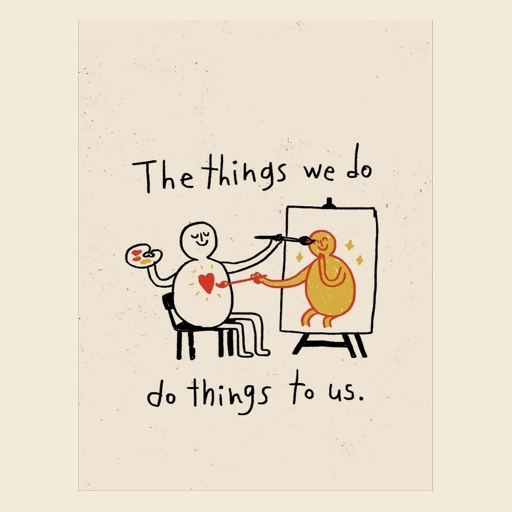
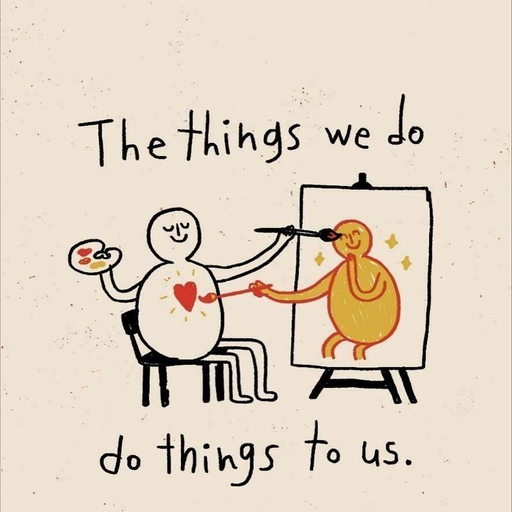
Add files via upload

diff --git a/index.html b/index.html
@@ -3,191 +3,90 @@
 <head>
   <meta charset="utf-8" />
   <meta name="viewport" content="width=device-width, initial-scale=1, viewport-fit=cover" />
-  <meta name="theme-color" content="#efe4d2" />
-  <meta name="apple-mobile-web-app-capable" content="yes" />
-  <meta name="apple-mobile-web-app-title" content="Daily Points" />
-  <meta name="apple-mobile-web-app-status-bar-style" content="default" />
-  <link rel="manifest" href="manifest.webmanifest" />
-  <link rel="apple-touch-icon" href="icon-192.png" />
   <title>Daily Points</title>
+  <link rel="manifest" href="manifest.webmanifest" />
+  <link rel="icon" href="icon-192.png" />
+  <meta name="theme-color" content="#c6633f" />
   <style>
-    :root {
-      --paper: #f4ead9;
-      --card: #fff9ef;
-      --ink: #27221b;
-      --muted: #7a6d5b;
-      --line: #e1d2bd;
-      --green: #506849;
-      --rust: #b95a37;
-      --gold: #c39543;
-      --shadow: 0 14px 40px rgba(76, 55, 28, .12);
-    }
-    * { box-sizing: border-box; }
-    body {
-      margin: 0;
-      font-family: ui-rounded, -apple-system, BlinkMacSystemFont, "Segoe UI", sans-serif;
-      color: var(--ink);
-      background:
-        radial-gradient(circle at 18% 12%, rgba(185,90,55,.10), transparent 25%),
-        radial-gradient(circle at 90% 0%, rgba(80,104,73,.10), transparent 28%),
-        var(--paper);
-      min-height: 100vh;
-    }
-    .app { width: min(680px, 100%); margin: 0 auto; padding: 18px 16px 32px; }
-    header { display: flex; align-items: center; gap: 14px; padding: 6px 2px 16px; }
-    .logo { width: 66px; height: 66px; border-radius: 20px; object-fit: cover; box-shadow: 0 8px 22px rgba(52,38,23,.16); border: 1px solid rgba(60,42,22,.08); }
-    h1 { margin: 0; font-size: 30px; letter-spacing: -.03em; font-weight: 750; }
-    .subtitle { margin-top: 3px; color: var(--muted); font-size: 14px; }
-    .quote { margin: 6px 0 18px; padding: 12px 14px; border: 1px dashed #d5bfa1; border-radius: 18px; color: #574b3c; background: rgba(255,249,239,.54); line-height: 1.35; }
-    .score-card { background: var(--card); border: 1px solid var(--line); border-radius: 24px; box-shadow: var(--shadow); padding: 18px; }
-    .score-top { display: grid; grid-template-columns: 1.3fr .8fr .9fr; gap: 12px; align-items: center; }
-    .label { color: var(--muted); font-size: 12px; text-transform: uppercase; letter-spacing: .08em; }
-    .big { font-size: 36px; line-height: 1; font-weight: 760; letter-spacing: -.04em; }
-    .grade { color: var(--green); }
-    .streak { color: var(--rust); }
-    .progress { height: 10px; background: #e8dccb; border-radius: 999px; margin-top: 14px; overflow: hidden; }
-    .bar { height: 100%; width: 0%; background: var(--rust); border-radius: 999px; transition: width .25s ease; }
-    .section { margin-top: 18px; background: rgba(255,249,239,.72); border: 1px solid var(--line); border-radius: 22px; overflow: hidden; }
-    .section h2 { margin: 0; padding: 15px 16px 10px; font-size: 18px; }
-    .task { display: flex; align-items: center; gap: 12px; padding: 12px 14px; border-top: 1px solid rgba(225,210,189,.72); min-height: 54px; }
-    .task:first-of-type { border-top: 0; }
-    .task input { width: 22px; height: 22px; accent-color: var(--green); flex: 0 0 auto; }
-    .task-name { flex: 1; font-size: 16px; }
-    .pts { font-size: 13px; color: #8b552c; background: #f4e5d0; border: 1px solid #e5c9a9; padding: 4px 8px; border-radius: 999px; white-space: nowrap; }
-    .group { padding: 8px 0 2px; border-top: 1px solid rgba(225,210,189,.72); }
-    .group-title { padding: 6px 16px; color: var(--muted); font-size: 13px; font-weight: 700; }
-    .actions { display: flex; gap: 10px; margin-top: 16px; }
-    button { border: 0; border-radius: 16px; padding: 13px 14px; font-weight: 750; font-size: 15px; cursor: pointer; }
-    .primary { flex: 1; background: var(--green); color: #fffaf1; }
-    .secondary { background: #eadbc6; color: #4e4132; }
-    .history { margin-top: 18px; color: var(--muted); font-size: 14px; line-height: 1.6; }
-    .history strong { color: var(--ink); }
-    @media (max-width: 420px) {
-      .score-top { grid-template-columns: 1fr 1fr 1fr; gap: 8px; }
-      .big { font-size: 31px; }
-      h1 { font-size: 27px; }
-      .task-name { font-size: 15px; }
-    }
+    :root{--paper:#f6ecdc;--card:#fff8ec;--ink:#2d2924;--muted:#7d7063;--line:#e2d2bd;--accent:#c6633f;--green:#526b45;--gold:#b98b33;--shadow:0 12px 30px rgba(54,39,21,.12);}
+    *{box-sizing:border-box} body{margin:0;font-family:ui-rounded, -apple-system, BlinkMacSystemFont, "Segoe UI", sans-serif;background:var(--paper);color:var(--ink);}
+    .wrap{max-width:520px;margin:0 auto;min-height:100vh;padding:22px 16px 36px;background:radial-gradient(circle at 15% 0%,rgba(255,255,255,.8),transparent 35%),var(--paper)}
+    header{text-align:center;padding-top:8px}.logo{width:112px;height:112px;border-radius:28px;object-fit:cover;box-shadow:var(--shadow);display:block;margin:0 auto 14px}h1{font-size:34px;line-height:1;margin:0;font-weight:650;letter-spacing:-.04em}.tag{margin:8px 0 22px;color:var(--muted);font-size:15px}
+    .score{background:var(--card);border:1px solid var(--line);border-radius:26px;padding:18px;box-shadow:var(--shadow);margin-bottom:16px}.top{display:grid;grid-template-columns:1fr 1fr 1fr;gap:10px;text-align:center}.label{font-size:12px;text-transform:uppercase;letter-spacing:.08em;color:var(--muted)}.big{font-size:28px;font-weight:750;margin-top:4px}.grade{color:var(--green)}.bar{height:10px;background:#eadcc7;border-radius:99px;overflow:hidden;margin-top:16px}.fill{height:100%;width:0;background:var(--accent);border-radius:99px;transition:.25s}
+    .quote{display:flex;gap:12px;align-items:center;margin:16px 4px 20px}.quote img{width:86px;height:86px;border-radius:18px;object-fit:cover}.quote p{font-size:20px;line-height:1.25;margin:0;letter-spacing:-.03em}
+    .section{background:rgba(255,248,236,.68);border:1px solid var(--line);border-radius:24px;padding:10px 14px;margin:14px 0} .section h2{font-size:16px;margin:8px 4px 10px;letter-spacing:-.02em}.item{display:flex;align-items:center;gap:12px;padding:12px 4px;border-top:1px solid rgba(150,122,90,.22)}.item:first-of-type{border-top:0}.item input{width:22px;height:22px;accent-color:var(--green)}.item label{flex:1;font-size:16px}.pts{font-size:13px;color:#8f552e;background:#f4e7d4;border:1px solid #e5cfb3;border-radius:999px;padding:4px 8px;white-space:nowrap}.choice{display:grid;gap:8px;padding:4px 0 8px}.choice label{display:flex;align-items:center;gap:10px;padding:10px;border:1px solid rgba(150,122,90,.22);border-radius:16px;background:rgba(255,255,255,.25)}.choice input{accent-color:var(--green)}
+    .buttons{display:flex;gap:10px;margin-top:16px}.buttons button{flex:1;border:0;border-radius:16px;padding:13px 12px;font-weight:700;background:var(--ink);color:white}.buttons button.secondary{background:#e5d6c1;color:var(--ink)}.history{font-size:14px;color:var(--muted);line-height:1.6}.foot{text-align:center;color:var(--muted);font-size:12px;margin-top:18px}
   </style>
 </head>
 <body>
-  <main class="app">
+  <main class="wrap">
     <header>
-      <img class="logo" src="logo.png" alt="The things we do do things to us" />
-      <div>
-        <h1>Daily Points</h1>
-        <div class="subtitle">Small things, counted gently.</div>
-      </div>
+      <img class="logo" src="logo.png" alt="Daily Points logo">
+      <h1>Daily Points</h1>
+      <p class="tag">Small things, counted gently.</p>
     </header>
 
-    <div class="quote">“The things we do, do things to us.”</div>
-
-    <section class="score-card">
-      <div class="score-top">
-        <div><div class="label">Today</div><div class="big"><span id="score">0</span><span style="font-size:18px;color:var(--muted)"> / 20</span></div></div>
+    <section class="score">
+      <div class="top">
+        <div><div class="label">Today</div><div class="big"><span id="score">0</span>/18</div></div>
         <div><div class="label">Grade</div><div class="big grade" id="grade">F</div></div>
-        <div><div class="label">Streak</div><div class="big streak"><span id="streak">0</span>🔥</div></div>
+        <div><div class="label">Streak</div><div class="big"><span id="streak">0</span>🔥</div></div>
       </div>
-      <div class="progress"><div class="bar" id="bar"></div></div>
-      <div class="history" id="summary"></div>
+      <div class="bar"><div class="fill" id="fill"></div></div>
     </section>
 
-    <section class="section" id="tasks">
+    <div class="quote"><img src="logo.png" alt=""><p>The things we do<br>do things to us.</p></div>
+
+    <section class="section">
       <h2>Today</h2>
-      <label class="task"><input type="checkbox" data-id="run" data-points="2"><span class="task-name">Go on a run</span><span class="pts">2 pts</span></label>
-      <label class="task"><input type="checkbox" data-id="cook" data-points="1"><span class="task-name">Cook food</span><span class="pts">1 pt</span></label>
-      <label class="task"><input type="checkbox" data-id="yoga" data-points="1"><span class="task-name">Do yoga</span><span class="pts">1 pt</span></label>
-      <label class="task"><input type="checkbox" data-id="steps" data-points="1"><span class="task-name">10k steps</span><span class="pts">1 pt</span></label>
-      <label class="task"><input type="checkbox" data-id="abs" data-points="1"><span class="task-name">Ab workout</span><span class="pts">1 pt</span></label>
-      <label class="task"><input type="checkbox" data-id="pray" data-points="1"><span class="task-name">Pray</span><span class="pts">1 pt</span></label>
-      <label class="task"><input type="checkbox" data-id="work" data-points="2"><span class="task-name">Advance well on work</span><span class="pts">2 pts</span></label>
-      <label class="task"><input type="checkbox" data-id="art" data-points="2"><span class="task-name">Do an artistic activity</span><span class="pts">2 pts</span></label>
-      <label class="task"><input type="checkbox" data-id="tidy" data-points="1"><span class="task-name">Tidy up the house</span><span class="pts">1 pt</span></label>
-      <label class="task"><input type="checkbox" data-id="sunset" data-points="0.5"><span class="task-name">Watch a sunset</span><span class="pts">0.5 pt</span></label>
-      <label class="task"><input type="checkbox" data-id="doc" data-points="0.5"><span class="task-name">Watch a documentary</span><span class="pts">0.5 pt</span></label>
+      <div class="item"><input type="checkbox" data-points="2" id="run"><label for="run">Go on a run</label><span class="pts">2 pts</span></div>
+      <div class="item"><input type="checkbox" data-points="1" id="cook"><label for="cook">Cook food</label><span class="pts">1 pt</span></div>
+      <div class="item"><input type="checkbox" data-points="1" id="yoga"><label for="yoga">Do yoga</label><span class="pts">1 pt</span></div>
+      <div class="item"><input type="checkbox" data-points="0.5" id="sunset"><label for="sunset">Watch a sunset</label><span class="pts">0.5 pt</span></div>
+      <div class="item"><input type="checkbox" data-points="2" id="work"><label for="work">Advance well on work</label><span class="pts">2 pts</span></div>
+      <div class="item"><input type="checkbox" data-points="1" id="steps"><label for="steps">10k steps</label><span class="pts">1 pt</span></div>
+      <div class="item"><input type="checkbox" data-points="1" id="abs"><label for="abs">Ab workout</label><span class="pts">1 pt</span></div>
+      <div class="item"><input type="checkbox" data-points="0.5" id="doc"><label for="doc">Watch a documentary</label><span class="pts">0.5 pt</span></div>
+      <div class="item"><input type="checkbox" data-points="1" id="pray"><label for="pray">Pray</label><span class="pts">1 pt</span></div>
+      <div class="item"><input type="checkbox" data-points="2" id="art"><label for="art">Do an artistic activity</label><span class="pts">2 pts</span></div>
+      <div class="item"><input type="checkbox" data-points="1" id="tidy"><label for="tidy">Tidy up the house</label><span class="pts">1 pt</span></div>
+    </section>
 
-      <div class="group">
-        <div class="group-title">Screen time</div>
-        <label class="task"><input type="radio" name="screen" data-id="screen4" data-points="1"><span class="task-name">Less than 4h screen time</span><span class="pts">1 pt</span></label>
-        <label class="task"><input type="radio" name="screen" data-id="screen3" data-points="2"><span class="task-name">Less than 3h screen time</span><span class="pts">2 pts</span></label>
-      </div>
-
-      <div class="group">
-        <div class="group-title">Reading</div>
-        <label class="task"><input type="radio" name="reading" data-id="read30" data-points="1"><span class="task-name">Read for 30 minutes</span><span class="pts">1 pt</span></label>
-        <label class="task"><input type="radio" name="reading" data-id="read1" data-points="2"><span class="task-name">Read for 1 hour</span><span class="pts">2 pts</span></label>
-        <label class="task"><input type="radio" name="reading" data-id="read2" data-points="3"><span class="task-name">Read for 2 hours</span><span class="pts">3 pts</span></label>
+    <section class="section">
+      <h2>Screen time</h2>
+      <div class="choice" data-group="screen">
+        <label><input type="radio" name="screen" value="0" checked> None</label>
+        <label><input type="radio" name="screen" value="1"> Less than 4h <span class="pts">1 pt</span></label>
+        <label><input type="radio" name="screen" value="2"> Less than 3h <span class="pts">2 pts</span></label>
       </div>
     </section>
 
-    <div class="actions">
-      <button class="primary" id="saveBtn">Save today</button>
-      <button class="secondary" id="resetBtn">Clear</button>
-    </div>
+    <section class="section">
+      <h2>Reading</h2>
+      <div class="choice" data-group="reading">
+        <label><input type="radio" name="reading" value="0" checked> None</label>
+        <label><input type="radio" name="reading" value="1"> 30 minutes <span class="pts">1 pt</span></label>
+        <label><input type="radio" name="reading" value="2"> 1 hour <span class="pts">2 pts</span></label>
+        <label><input type="radio" name="reading" value="3"> 2 hours <span class="pts">3 pts</span></label>
+      </div>
+    </section>
 
-    <div class="history" id="history"></div>
+    <div class="buttons"><button id="save">Save today</button><button class="secondary" id="reset">Reset</button></div>
+    <section class="section"><h2>History</h2><div class="history" id="history">No saved days yet.</div></section>
+    <div class="foot">Updates should appear faster now because offline caching is disabled.</div>
   </main>
-
-  <script>
-    const TARGET = 20;
-    const todayKey = () => new Date().toISOString().slice(0,10);
-    const inputs = [...document.querySelectorAll('input[data-points]')];
-    const key = 'daily-points-v4';
-    const load = () => JSON.parse(localStorage.getItem(key) || '{}');
-    const save = (data) => localStorage.setItem(key, JSON.stringify(data));
-    let data = load();
-    let day = todayKey();
-
-    function grade(score) {
-      if (score >= 20) return 'A+';
-      if (score >= 17) return 'A';
-      if (score >= 15) return 'B';
-      if (score >= 12) return 'C';
-      if (score >= 8) return 'D';
-      return 'F';
-    }
-    function selectedIds() { return inputs.filter(i => i.checked).map(i => i.dataset.id); }
-    function scoreNow() { return inputs.reduce((s, i) => s + (i.checked ? Number(i.dataset.points) : 0), 0); }
-    function fmt(n) { return Number.isInteger(n) ? String(n) : n.toFixed(1); }
-    function calcStreak() {
-      let count = 0;
-      let d = new Date();
-      while (true) {
-        const k = d.toISOString().slice(0,10);
-        if (!data[k] || data[k].score < 15) break;
-        count++;
-        d.setDate(d.getDate() - 1);
-      }
-      return count;
-    }
-    function render() {
-      const s = scoreNow();
-      document.getElementById('score').textContent = fmt(s);
-      document.getElementById('grade').textContent = grade(s);
-      document.getElementById('bar').style.width = Math.min(100, (s / TARGET) * 100) + '%';
-      const temp = {...data, [day]: { score: s, ids: selectedIds() }};
-      const old = data; data = temp;
-      document.getElementById('streak').textContent = calcStreak();
-      data = old;
-      const total = Object.values(data).reduce((a,b) => a + (b.score || 0), 0);
-      document.getElementById('summary').innerHTML = `Goal is <strong>20 points</strong>. Lifetime total: <strong>${fmt(total)}</strong> points.`;
-      const days = Object.keys(data).sort().reverse().slice(0,7);
-      document.getElementById('history').innerHTML = days.length ? '<strong>Recent days</strong><br>' + days.map(k => `${k}: ${fmt(data[k].score)} pts · ${grade(data[k].score)}`).join('<br>') : '';
-    }
-    function restore() {
-      const entry = data[day];
-      if (!entry) return;
-      inputs.forEach(i => i.checked = entry.ids && entry.ids.includes(i.dataset.id));
-    }
-    inputs.forEach(i => i.addEventListener('change', render));
-    document.getElementById('saveBtn').addEventListener('click', () => {
-      data[day] = { score: scoreNow(), ids: selectedIds(), savedAt: new Date().toISOString() };
-      save(data);
-      render();
-    });
-    document.getElementById('resetBtn').addEventListener('click', () => { inputs.forEach(i => i.checked = false); render(); });
-    if ('serviceWorker' in navigator) navigator.serviceWorker.register('./service-worker.js');
-    restore(); render();
-  </script>
+<script>
+const MAX=18, todayKey=()=>new Date().toISOString().slice(0,10);
+const ids=[...document.querySelectorAll('input')];
+function grade(p){return p>=.9?'A+':p>=.8?'A':p>=.7?'B':p>=.55?'C':p>=.4?'D':'F'}
+function score(){let s=0;document.querySelectorAll('input[type=checkbox]:checked').forEach(x=>s+=+x.dataset.points);s+=+document.querySelector('input[name=screen]:checked').value;s+=+document.querySelector('input[name=reading]:checked').value;return s}
+function load(){let d=JSON.parse(localStorage.getItem('daily-points-state')||'{}')[todayKey()]||{};ids.forEach(i=>{if(i.type==='checkbox')i.checked=!!d[i.id];else if(d[i.name]===i.value)i.checked=true});update()}
+function save(){let all=JSON.parse(localStorage.getItem('daily-points-state')||'{}');let d={score:score()};ids.forEach(i=>{if(i.type==='checkbox')d[i.id]=i.checked;else if(i.checked)d[i.name]=i.value});all[todayKey()]=d;localStorage.setItem('daily-points-state',JSON.stringify(all));renderHistory()}
+function reset(){ids.forEach(i=>{if(i.type==='checkbox')i.checked=false; if(i.type==='radio'&&i.value==='0')i.checked=true});update();save()}
+function streak(){let all=JSON.parse(localStorage.getItem('daily-points-state')||'{}'), n=0, d=new Date(); while(true){let k=d.toISOString().slice(0,10), v=all[k]?.score||0; if(v/MAX>=.7)n++; else break; d.setDate(d.getDate()-1)} return n}
+function renderHistory(){let all=JSON.parse(localStorage.getItem('daily-points-state')||'{}');let rows=Object.keys(all).sort().reverse().slice(0,7).map(k=>`${k}: ${all[k].score}/18 — ${grade(all[k].score/MAX)}`);document.getElementById('history').innerHTML=rows.length?rows.join('<br>'):'No saved days yet.';document.getElementById('streak').textContent=streak()}
+function update(){let s=score(), p=s/MAX;document.getElementById('score').textContent=Number.isInteger(s)?s:s.toFixed(1);document.getElementById('grade').textContent=grade(p);document.getElementById('fill').style.width=Math.min(100,p*100)+'%';renderHistory()}
+ids.forEach(i=>i.addEventListener('change',()=>{update();save()}));document.getElementById('save').onclick=save;document.getElementById('reset').onclick=reset;load();
+</script>
 </body>
 </html>